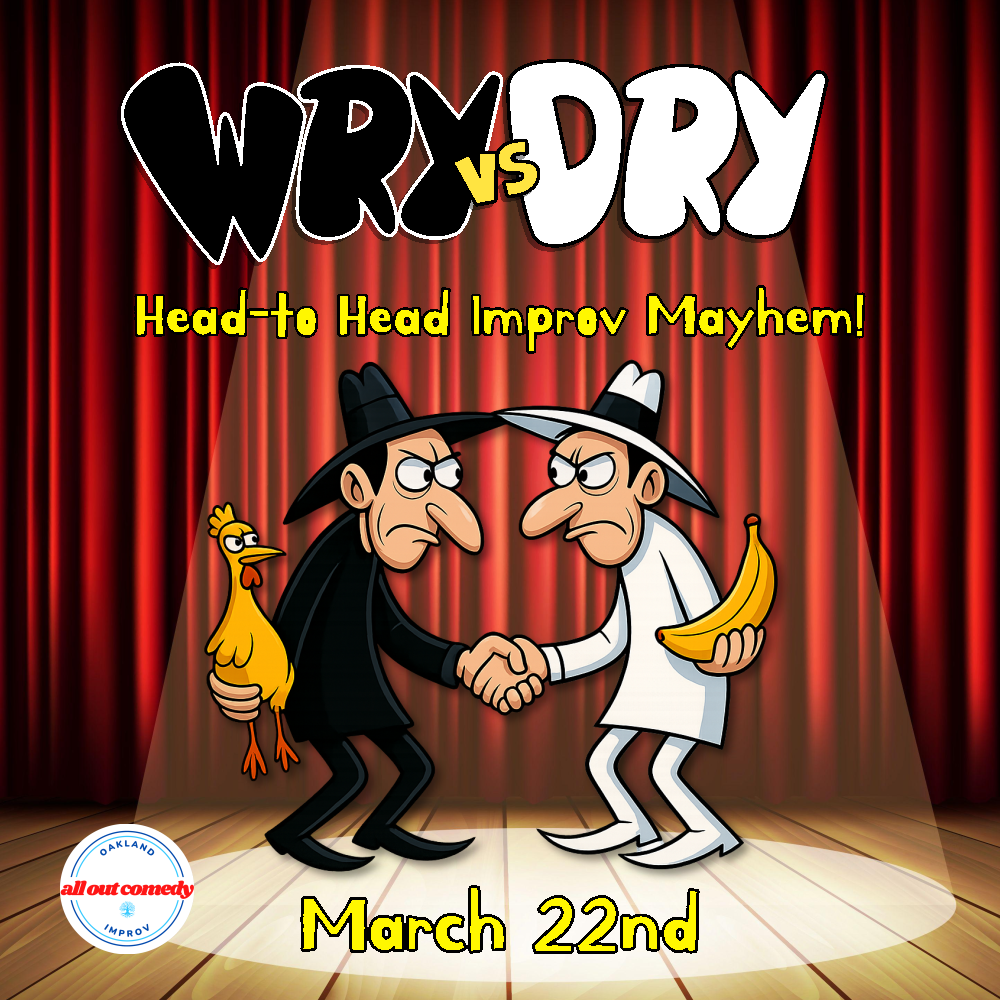
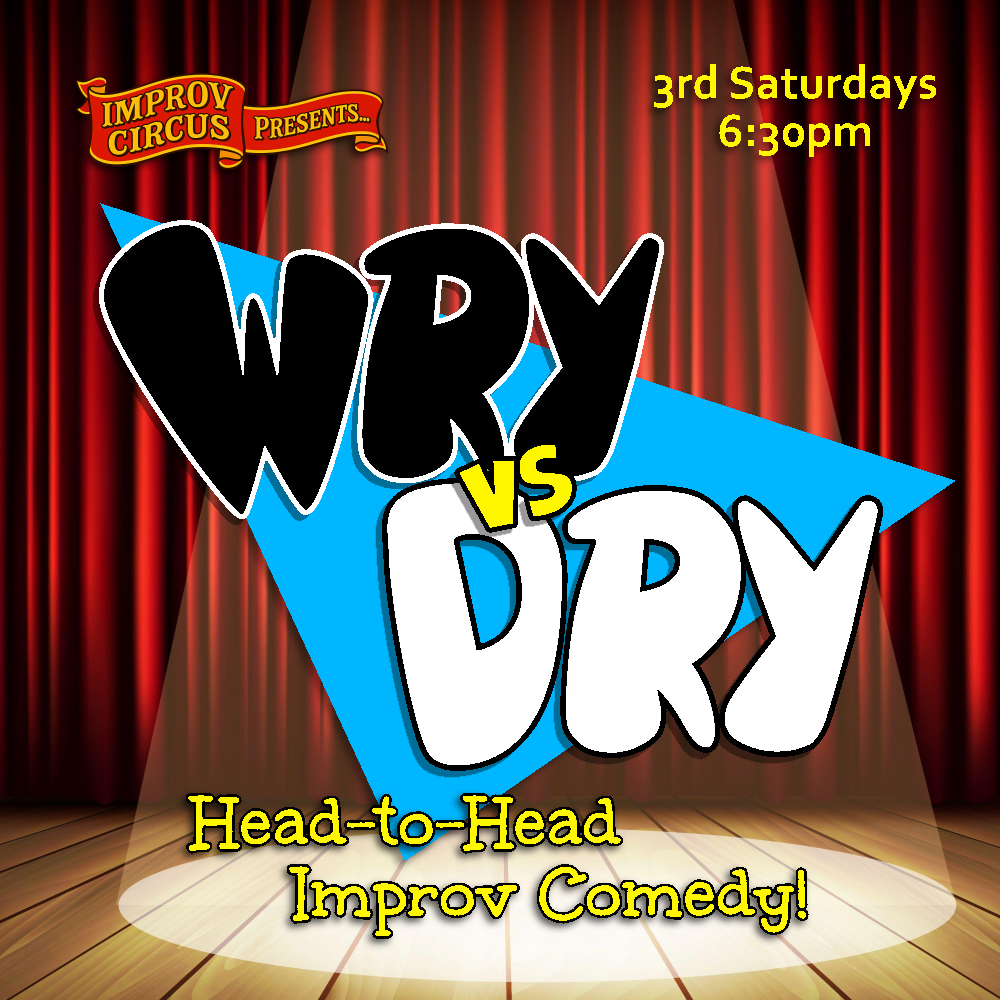
chore: update show images, improve show page metadata

diff --git a/src/_models/show.js b/src/_models/show.js
@@ -2,7 +2,7 @@ import { Player } from "./player.js";
 import { Theater } from "./theater.js";
 import { Social } from "./social.js";
 import { DateWithZone } from "./dateWithZone.js";
-import {imageUrl, isoDate, shortDate} from "./modelUtils.js";
+import { imageUrl } from "./modelUtils.js";
 
 /**
  * @typedef {Object} ShowType
@@ -71,6 +71,88 @@ export class Show {
         `📍 ${this.theater.name}`,
       ].filter(it => !!it).join("\n"),
     })
+  }
+
+  /**
+   * Build JSON-LD data for a show page
+   * @param {{url: string, organization?: Record<string, any>}} site
+   * @return {string}
+   */
+  jsonLD(site) {
+    const baseUrl = site.url.replace(/\/$/, "");
+    const eventUrl = `${baseUrl}${this.pageLink}`;
+    const imageUrls = [this.bannerImage, this.image]
+      .filter(Boolean)
+      .map(path => `${baseUrl}${path}`);
+    const postalAddress = {
+      "@type": "PostalAddress",
+      addressLocality: this.theater.location.city,
+      addressRegion: this.theater.location.state,
+      postalCode: this.theater.location.zip,
+      streetAddress: this.theater.location.street,
+      addressCountry: "US",
+    };
+    const location = {
+      "@type": "Place",
+      name: this.theater.name,
+      url: this.theater.link,
+      address: Object.fromEntries(Object.entries(postalAddress).filter(([, value]) => !!value)),
+    };
+
+    if (this.theater.location.lat !== undefined && this.theater.location.lng !== undefined) {
+      location.geo = {
+        "@type": "GeoCoordinates",
+        latitude: this.theater.location.lat,
+        longitude: this.theater.location.lng,
+      };
+    }
+
+    const eventData = {
+      "@context": "https://schema.org",
+      "@type": "Event",
+      "@id": `${eventUrl}#event`,
+      url: eventUrl,
+      name: this.name,
+      description: this.description,
+      image: imageUrls,
+      organizer: site.organization ?? {
+        "@type": "Organization",
+        name: "Improv Circus",
+        url: baseUrl,
+        logo: `${baseUrl}/images/improv-circus.png`,
+        email: "[email redacted]",
+      },
+      startDate: this.when.iso,
+      eventStatus: "https://schema.org/EventScheduled",
+      eventAttendanceMode: "https://schema.org/OfflineEventAttendanceMode",
+      audience: {
+        "@type": "Audience",
+        audienceType: "San Francisco Bay Area families, kids, teens, and adults",
+      },
+      location,
+      performer: this.players.map(player => {
+        const performer = {
+          "@type": "Person",
+          name: player.name,
+          image: `${baseUrl}${player.image}`,
+        };
+        if (player.bioText) {
+          performer.description = player.bioText;
+        }
+        return performer;
+      }),
+    };
+
+    if (this.tickets?.link || this.tickets?.cost) {
+      eventData.offers = {
+        "@type": "Offer",
+        url: this.tickets?.link ?? eventUrl,
+        availability: "https://schema.org/InStock",
+        ...(this.tickets?.cost ? { description: this.tickets.cost } : {}),
+      };
+    }
+
+    return JSON.stringify(eventData, undefined, 2);
   }
 
   /**

diff --git a/src/_data/site.js b/src/_data/site.js
@@ -1,0 +1,15 @@
+const DEFAULT_SITE_URL = "http://localhost:8111";
+const siteUrl = process.env.SITE_URL ?? DEFAULT_SITE_URL;
+
+export default {
+  title: "Improv Circus",
+  url: siteUrl,
+  organization: {
+    "@type": "Organization",
+    "@id": `${siteUrl}/#organization`,
+    name: "Improv Circus",
+    url: siteUrl,
+    logo: `${siteUrl}/images/improv-circus.png`,
+    email: "[email redacted]",
+  },
+};

diff --git a/src/_models/player.js b/src/_models/player.js
@@ -28,6 +28,7 @@ export class Player {
     this.name = data.name;
     this.nickname = data.nickname ?? data.name.split(' ')[0];
     this.bio = data.bio ? markdown(data.bio) : undefined;
+    this.bioText = data.bio;
     this.image = imageUrl('people', data.image ?? 'default.png');
     this.location = data.location
     this.homeTown = data.home_town